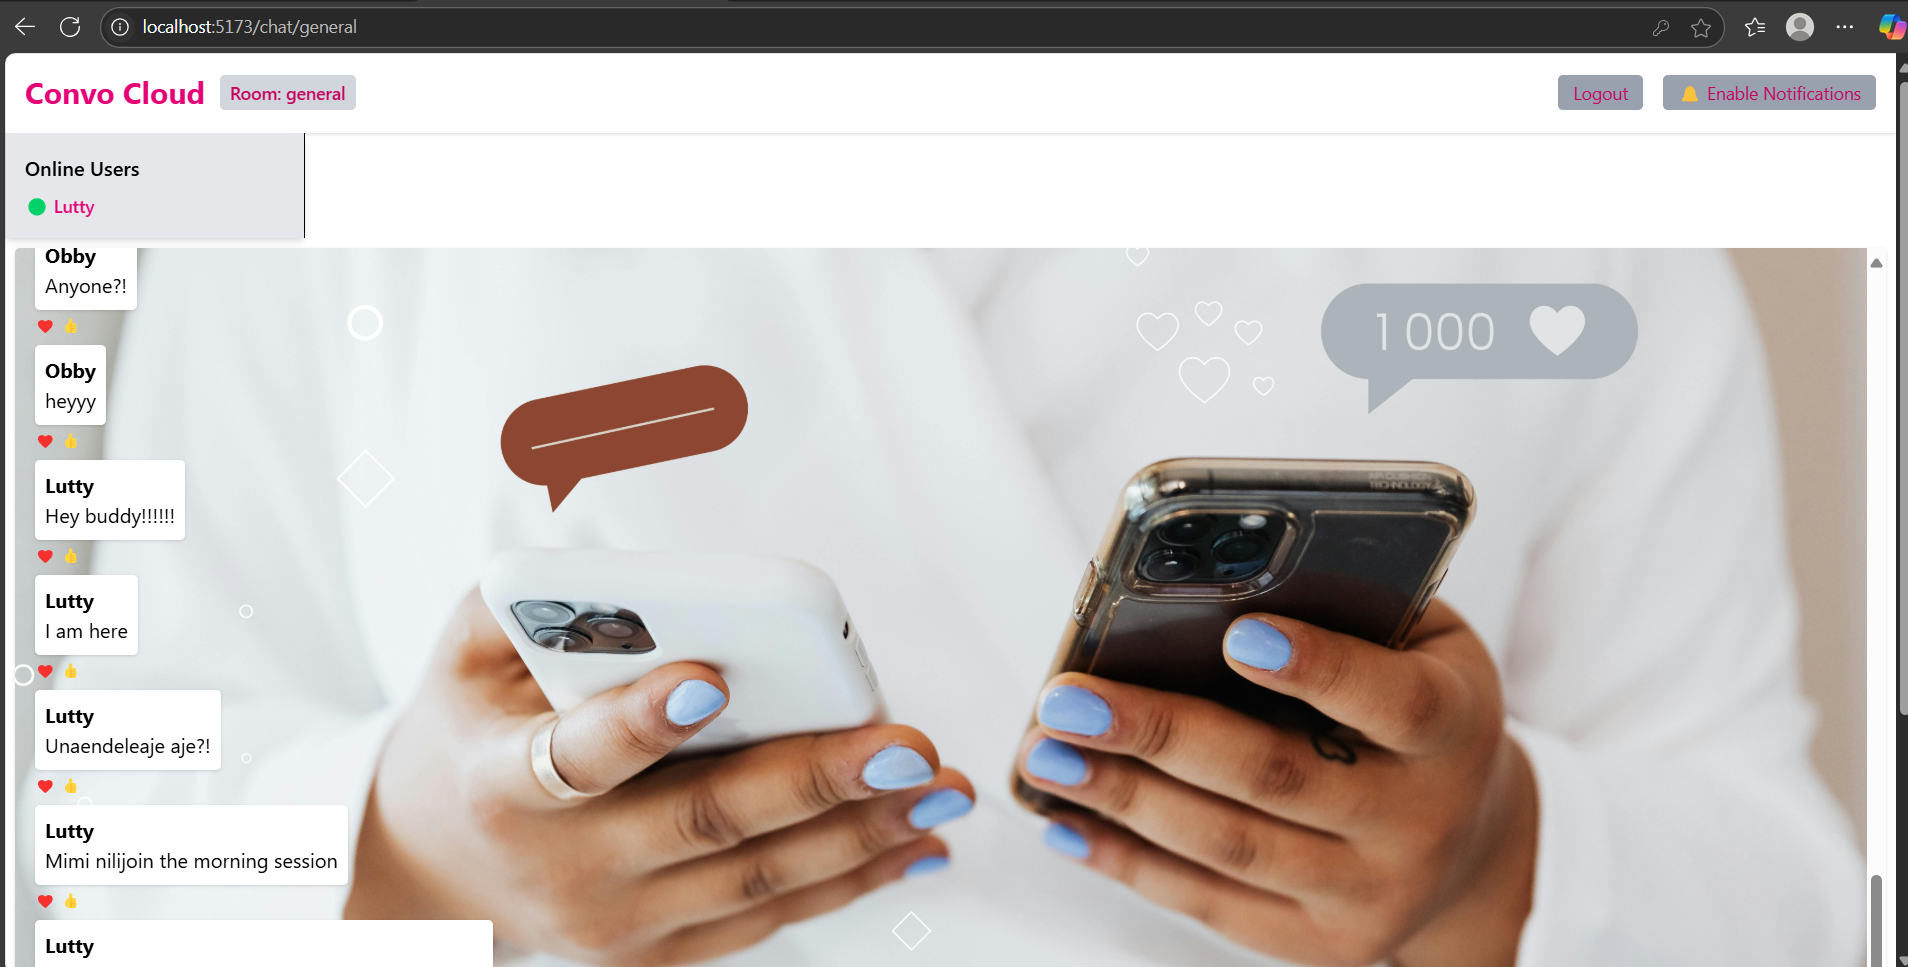
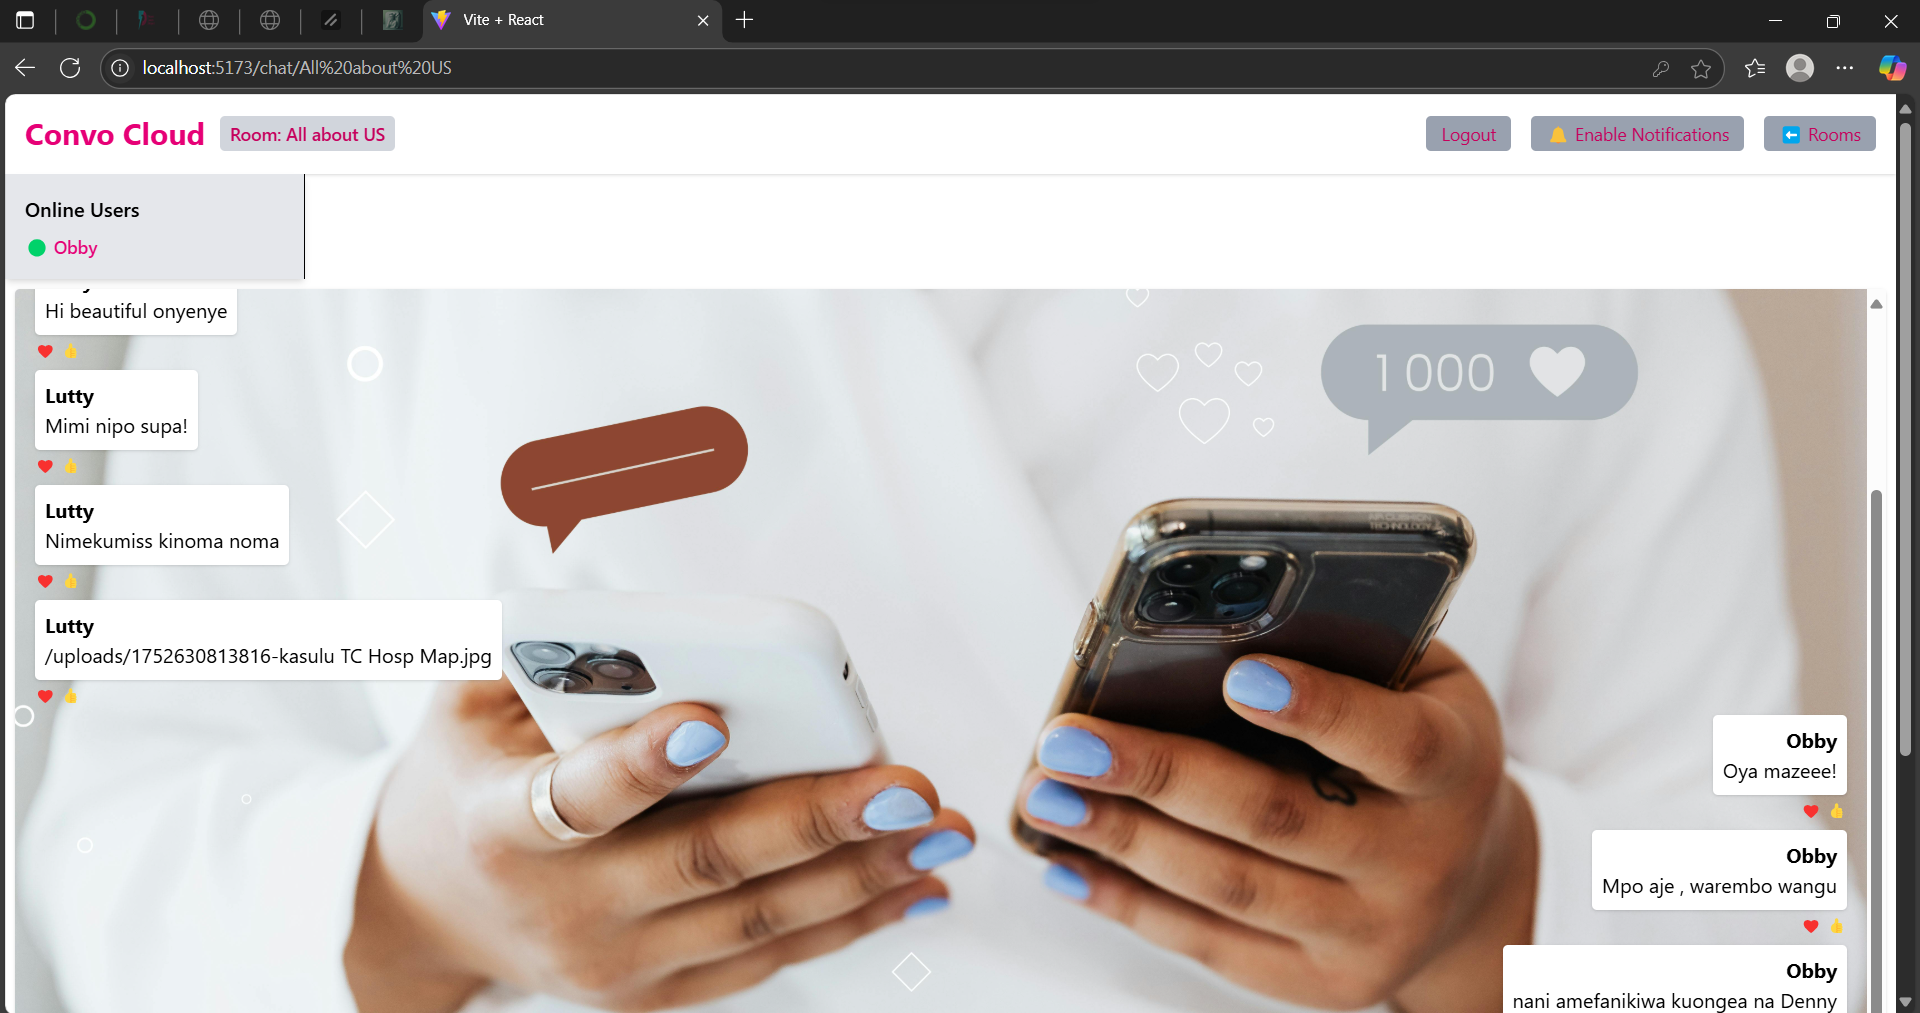
Initialize MERN stack chat app with Vite React frontend and Express/MongoDB backend with updated README file

diff --git a/client/src/pages/RoomSelector.jsx b/client/src/pages/RoomSelector.jsx
@@ -1,0 +1,119 @@
+import { useEffect, useState } from 'react';
+import { useNavigate } from 'react-router-dom';
+import API from '../services/backenInt';
+
+export default function RoomSelector() {
+  const [rooms, setRooms] = useState([]);
+  const [roomName, setRoomName] = useState('');
+  const [description, setDescription] = useState('');
+  const navigate = useNavigate();
+  const token = localStorage.getItem('token');
+  const userId = localStorage.getItem('userId');
+  
+
+if (!userId) {
+  console.warn("⚠ No userId found in localStorage");
+}
+
+  useEffect(() => {
+    API.get('/rooms')
+      .then((res) => setRooms(res.data))
+      .catch((err) => console.error('Failed to fetch rooms:', err));
+  }, []);
+
+  const handleJoinRoom = (room) => {
+    navigate(`/chat/${room.name}`);
+  };
+
+  const handleCreateRoom = async () => {
+  const userId = localStorage.getItem("userId");
+  const token = localStorage.getItem("token");
+
+  console.log("Creating room with userId:", userId); // 🔍 Important Debug
+
+  if (!userId || !token) {
+    alert("Missing user credentials. Please login again.");
+    navigate("/");
+    return;
+  }
+
+  try {
+    const res = await API.post(
+      "/rooms",
+      {
+       name: roomName.trim(),
+       description,
+      },
+      {
+        headers: {
+          Authorization: `Bearer ${token}`,
+        },
+      }
+    );
+    navigate(`/chat/${res.data.name}`);
+  } catch (err) {
+    console.error("Error creating room:", err);
+    alert(err.response?.data?.error || "Failed to create room");
+  }
+};
+
+
+  return (
+    <div className="min-h-screen bg-gray-200 text-gray-700 p-4">
+      <button
+        onClick={() => navigate('/')}
+        className="bg-gray-400 text-pink-600 px-4 py-2 rounded hover:bg-gray-600 mb-6">
+        ⬅ Back to Login
+      </button>
+
+      <div className="max-w-3xl mx-auto bg-white shadow rounded p-6">
+        <h1 className="text-2xl font-bold text-pink-700 mb-4 text-center">
+          Convo Cloud — Room Selector
+        </h1>
+
+          <div className="mb-6">
+          <h2 className="text-xl text-pink-700 font-semibold mb-2">📋 Available Rooms:</h2>
+          {rooms.length === 0 ? (
+            <p className="text-gray-500">No rooms available yet. Create one below 👇</p>
+          ) : (
+            <ul className="space-y-2">
+              {rooms.map((room) => (
+                <li key={room._id}>
+                  <button
+                    onClick={() => handleJoinRoom(room)}
+                    className="text-gray-600 hover:underline">
+                    🔹 {room.name}
+                  </button>
+                </li>
+              ))}
+            </ul>
+          )}
+        </div>
+
+        {/* Create Room */}
+        <div>
+          <h2 className="text-xl text-pink-700 font-semibold mb-2">➕ Create a New Room</h2>
+          <p className="text-sm text-gray-600 mb-2">Set a unique name and short description.</p>
+          <input
+            className="w-full border p-2 rounded mb-2"
+            placeholder="Room Name"
+            value={roomName}
+            onChange={(e) => setRoomName(e.target.value)}
+          />
+          <input
+            className="w-full border p-2 rounded mb-4"
+            placeholder="Room Description"
+            value={description}
+            onChange={(e) => setDescription(e.target.value)}
+          />
+          <button
+            onClick={handleCreateRoom}
+            className="bg-pink-700 text-white px-4 py-2 rounded hover:bg-pink-900 w-full"
+          >
+            Create Room
+          </button>
+        </div>
+      </div>
+    </div>
+  );
+}

diff --git a/client/src/pages/Login.jsx b/client/src/pages/Login.jsx
@@ -9,30 +9,29 @@ export default function AuthPage() {
   const [password, setPassword] = useState("");
   const navigate = useNavigate();
 
-  const handleSubmit = async () => {
-    try {
-      const apiCall = isLogin ? loginUser : registerUser;
-      const res = await apiCall({ username, password });
+ const handleSubmit = async () => {
+  try {
+    const apiCall = isLogin ? loginUser : registerUser;
+    const res = await apiCall({ username, password });
 
-      localStorage.setItem("username", username);
-      localStorage.setItem("token", res.data.token);
+    localStorage.setItem("username", res.data.user.username);
+    localStorage.setItem("token", res.data.token); 
+    localStorage.setItem("userId", res.data.user._id); 
+  
 
-      navigate("/chat/general", {
-        state: { username, roomId: "general" },
-      });
-    } catch (err) {
-      console.error("Auth failed", err);
-    }
-  };
+
+    navigate("/rooms"); // Redirect to the room selector
+  } catch (err) {
+    console.error("Auth failed", err);
+  }
+};
 
   return (
     <div className="min-h-screen bg-gray-300 text-pink-500 relative">
-      {/* Logo Top Right */}
-      <div className="absolute top-4 right-4">
+        <div className="absolute top-4 right-4">
         <img src={logo} alt="Logo" className="w-20 h-20 rounded-full shadow" />
       </div>
 
-      {/* Welcome Message */}
       <div className="text-center pt-8">
         <h1 className="text-4xl font-bold">Welcome to Convo Cloud ☁</h1>
         <p className="text-sm text-pink-500">Connect. Chat. React in Real-Time.</p>

diff --git a/client/src/App.jsx b/client/src/App.jsx
@@ -1,28 +1,33 @@
 import { BrowserRouter as Router, Routes, Route } from 'react-router-dom';
 import Chat from './pages/Chat';
 import Login from './pages/Login';
+import RoomSelector from './pages/RoomSelector';
 import { ToastContainer } from 'react-toastify';
 import 'react-toastify/dist/ReactToastify.css';
 import ProtectedRoute from './utils/ProtectedRoute';
-import { AuthProvider } from './context/AuthContext';  
+import { AuthProvider } from './context/AuthContext';
 
 export default function App() {
   return (
     <AuthProvider>
       <Router>
-      <Routes>
-        <Route path="/" element={<Login />} />
-        <Route 
-          path="/chat/:roomId" 
-          element={
-            <ProtectedRoute>
-              <Chat />
-            </ProtectedRoute>
-          } 
-        />
-      </Routes>
-      <ToastContainer />
-    </Router>
+        <Routes>
+          <Route path="/" element={<Login />} />
+          <Route path="/rooms" element={
+              <ProtectedRoute>
+                <RoomSelector />
+              </ProtectedRoute>
+            } 
+          />
+          <Route path="/chat/:roomId" element={
+              <ProtectedRoute>
+                <Chat />
+              </ProtectedRoute>
+            } 
+          />
+        </Routes>
+        <ToastContainer />
+      </Router>
     </AuthProvider>
   );
 }

diff --git a/server/controllers/roomController.js b/server/controllers/roomController.js
@@ -13,7 +13,14 @@ exports.getRooms = async (req, res) => {
 
 // Create a new chat room
 exports.createRoom = async (req, res) => {
-  const { name, description, createdBy } = req.body;
+  const { name, description } = req.body;  
+  const createdBy = req.user.id;  // get creator from authenticated user
+
+  console.log('Room create request:', { name, description, createdBy });
+
+  if (!name || !createdBy) {
+    return res.status(400).json({ error: 'Room name and creator are required' });
+  }
 
   try {
     const existing = await Room.findOne({ name });
@@ -24,6 +31,7 @@ exports.createRoom = async (req, res) => {
     const room = await Room.create({ name, description, createdBy });
     res.status(201).json(room);
   } catch (error) {
-    res.status(500).json({ error: 'Failed to create room' });
+    console.error('Room creation error:', error.message);
+    res.status(500).json({ error: 'Internal server error' });
   }
 };

diff --git a/server/routes/messageRoutes.js b/server/routes/messageRoutes.js
@@ -16,12 +16,13 @@ const storage = multer.diskStorage({
 
 const upload = multer({ storage });
 
-router.get('/:roomId', getRoomMessages);
-router.post('/', sendMessage);
 router.get('/search', searchMessages);
 router.post('/upload', upload.single('image'), (req, res) => {
   const filePath = `/uploads/${req.file.filename}`;
   res.status(201).json({ url: filePath });
 });
+router.post('/', sendMessage);
+router.get('/:roomId', getRoomMessages);
+
 
 module.exports = router;

diff --git a/client/src/pages/Chat.jsx b/client/src/pages/Chat.jsx
@@ -187,6 +187,11 @@ const handleNotificationClick = () => {
             onClick={requestNotificationPermission}>
               🔔 Enable Notifications
           </button>
+          <button
+            onClick={() => navigate("/rooms")}
+            className="bg-gray-400 text-pink-700 px-3 py-1 rounded text-sm">
+              ⬅ Rooms
+          </button>
         </div>
       </header>
       <UserSidebar users={onlineUsers} />

diff --git a/server/config/db.js b/server/config/db.js
@@ -2,10 +2,7 @@ const mongoose = require("mongoose");
 
 const connectDB = async () => {
     try {
-        await mongoose.connect(process.env.MONGO_URI, {
-            useNewUrlParser: true,
-            useUnifiedTopology: true
-        });
+        await mongoose.connect(process.env.MONGO_URI);
         console.log("MongoDB Connected");
     } catch (error) {
         console.error("MongoDB connection Error", error.message);

diff --git a/README.md b/README.md
@@ -129,6 +129,9 @@ Open `http://localhost:5173` in your browser.
 ### Register/Login Page
 ![Register/Login](Screenshots/LoginPage.png)
 
+## Rooms Page
+![Roomspage](Screenshots/RoomsPage.png)
+
 ### Chat Page
 ![Chatpage](Screenshots/ChatPage.png)
 
